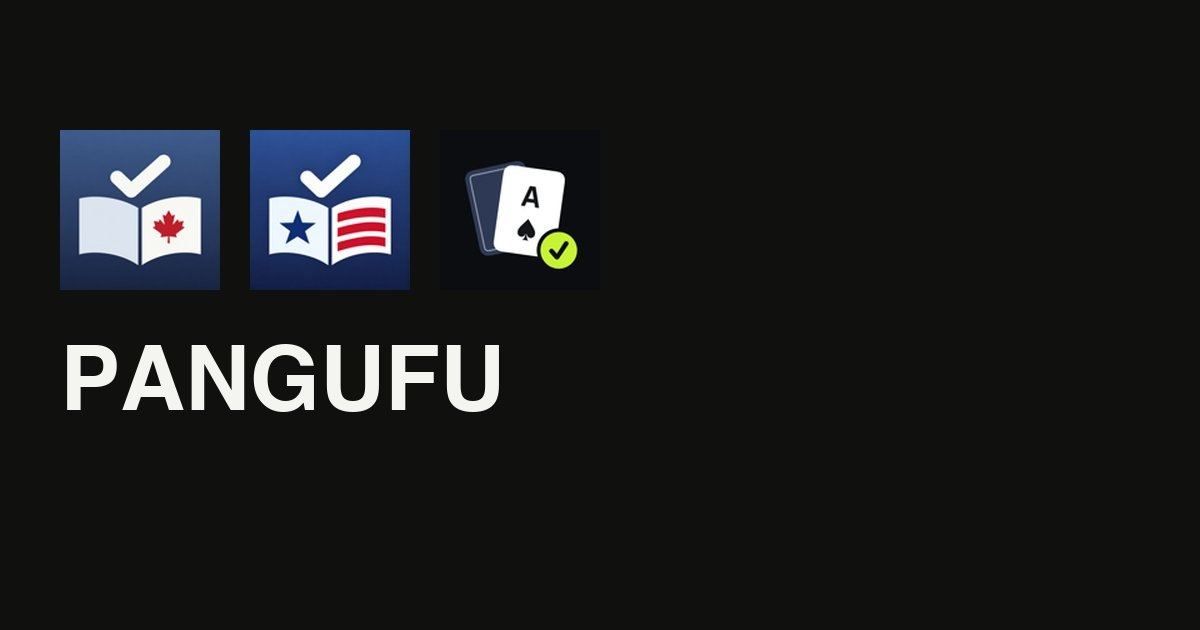
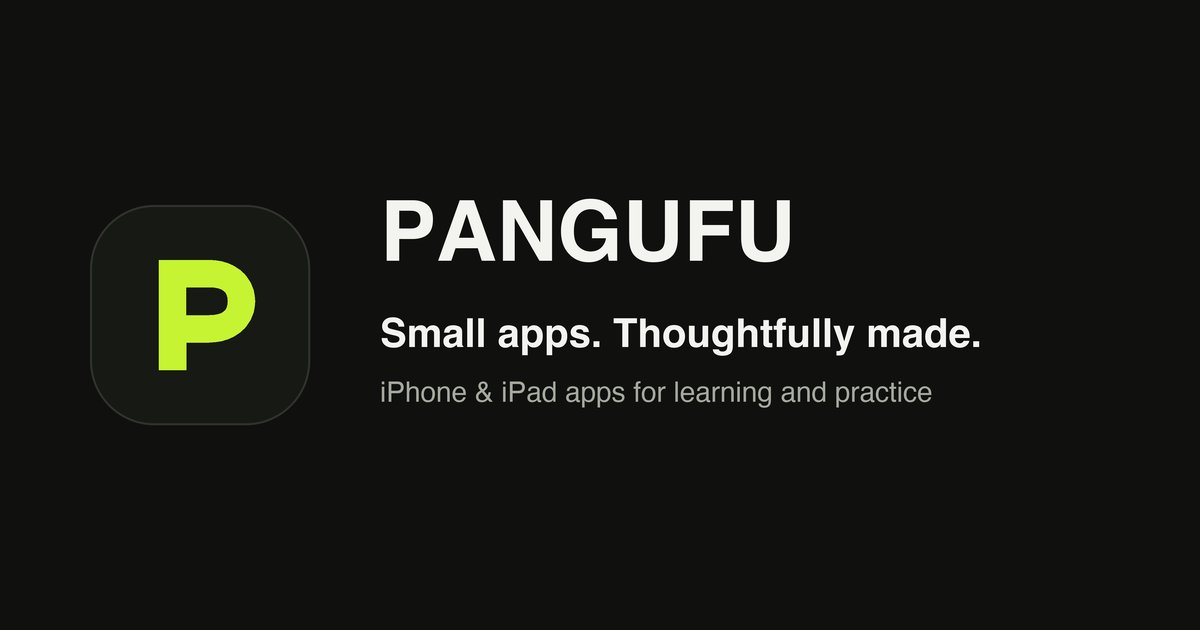
Make the home share image brand-only
Replace the three-icon og-pangufu.jpg with the P monogram, the PANGUFU name and the home page headline, so it no longer needs remaking when an app is added.

Changed region(s): [[0.0308, 0.181, 0.8325, 0.6937]]

diff --git a/index.html b/index.html
@@ -15,7 +15,7 @@
   <meta property="og:url" content="https://pangufu.ca/">
   <meta property="og:locale" content="en_CA">
   <meta property="og:image" content="https://pangufu.ca/assets/og-pangufu.jpg">
-  <meta property="og:image:alt" content="PANGUFU: app icons for Canada Citizenship Test Coach, US Citizen Test Coach and Blackjack &amp; Video Poker Coach">
+  <meta property="og:image:alt" content="PANGUFU logo with the headline Small apps. Thoughtfully made.">
   <meta name="twitter:card" content="summary_large_image">
   <link rel="stylesheet" href="/styles.css">
   <script type="application/ld+json">{"@context":"https://schema.org","@graph":[{"@type":"WebSite","name":"PANGUFU","url":"https://pangufu.ca/"},{"@type":"Organization","name":"PANGUFU SOLUTION LTD.","url":"https://pangufu.ca/","email":"support@pangufu.ca"}]}</script>

diff --git a/docs/assets.md b/docs/assets.md
@@ -36,4 +36,4 @@ Share images for Open Graph and Twitter cards, made on 2026-10-28 with a throwaw
 - `assets/og-uscitizencoach.jpg`, `assets/og-uscitizencoach-es.jpg` — `uscitizencoach-icon.png` + `uscitizencoach-home.jpg` / `uscitizencoach-home-es.jpg`.
 - `assets/og-cardtrainer.jpg` — `cardtrainer-icon.png` + `cardtrainer-practice.jpg`.
 - `assets/og-euchre.jpg` — `euchre-icon.png` + `euchre-table.jpg`, made on 2026-11-08 the same way, with the store name shortened to "Euchre".
-- `assets/og-pangufu.jpg` — the three app icons and the PANGUFU name, no screenshot (made when the home page covered three apps; Euchre is not on it yet).
+- `assets/og-pangufu.jpg` — brand only, so it never needs remaking when an app is added: the `favicon.svg` P monogram on a `#171915` tile, the PANGUFU name, the home page headline "Small apps. Thoughtfully made." and "iPhone & iPad apps for learning and practice". Remade on 2026-11-08 with a throwaway script (not committed), replacing the earlier three-icon version; 1200x630, quality 85, 39 KB.
